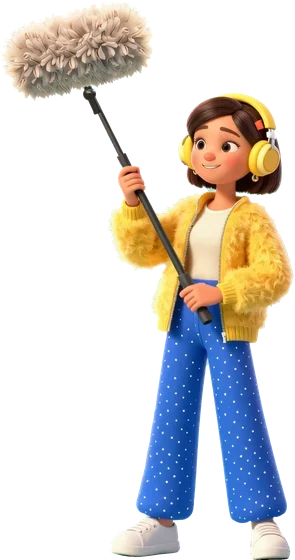
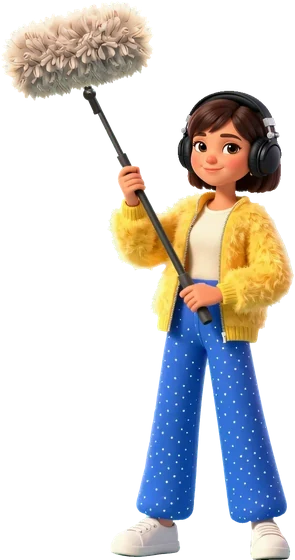
Team: straight gazes and studio headphones; the record strip goes round
- The recording person and the keyboardist no longer look cross-eyed; she wears professional black
  studio headphones (and freckles), in the hero and on the map
- On tablets and phones the strip of sleeves goes round in a circle, with no start or end; records
  slide out of their sleeves at an unhurried pace again

Changed region(s): [[0.5797, 0.1518, 0.9763, 0.3643]]

diff --git a/js/main.js b/js/main.js
@@ -72,7 +72,7 @@ function initHeader() {
 // line on top, the phone under it, the team under the phone. The people's tops come from their pictures:
 // bands of their silhouettes, every 4 % of the height (_dev/tools/team_silhouette.py), her microphone from
 // js/boom-frame.js; thin things (her pole) are left out.
-const SILHOUETTE = {"test":[[0.0,0.04,0.422,0.791],[0.04,0.08,0.391,0.812],[0.08,0.12,0.396,0.812],[0.12,0.16,0.381,0.719],[0.16,0.2,0.383,0.709],[0.2,0.24,0.0,0.828],[0.24,0.28,0.0,0.896],[0.28,0.32,0.002,0.934],[0.32,0.36,0.045,0.971],[0.36,0.4,0.072,0.998],[0.4,0.44,0.08,1.0],[0.44,0.48,0.285,0.986],[0.48,0.52,0.281,0.945],[0.52,0.56,0.285,0.828],[0.56,0.6,0.32,0.777]],"rec":[[0.12,0.16,0.726,0.832],[0.16,0.2,0.611,0.924],[0.2,0.24,0.587,0.939],[0.24,0.28,0.576,0.954],[0.28,0.32,0.354,0.956],[0.32,0.36,0.359,0.95],[0.36,0.4,0.32,0.936],[0.4,0.44,0.317,0.974],[0.44,0.48,0.35,0.996],[0.48,0.52,0.488,1.0],[0.52,0.56,0.475,0.969],[0.56,0.6,0.499,0.901]],"mix":[[0.0,0.04,0.221,0.546],[0.04,0.08,0.112,0.633],[0.08,0.12,0.087,0.633],[0.12,0.16,0.077,0.602],[0.16,0.2,0.108,0.562],[0.2,0.24,0.231,0.585],[0.24,0.28,0.127,0.683],[0.28,0.32,0.071,0.74],[0.32,0.36,0.025,0.794],[0.36,0.4,0.0,0.831],[0.4,0.44,0.0,0.848],[0.44,0.48,0.027,0.994],[0.48,0.52,0.113,1.0],[0.52,0.56,0.023,0.892],[0.56,0.6,0.044,0.698]]};
+const SILHOUETTE = {"test":[[0.0,0.04,0.422,0.791],[0.04,0.08,0.391,0.812],[0.08,0.12,0.396,0.812],[0.12,0.16,0.381,0.719],[0.16,0.2,0.383,0.709],[0.2,0.24,0.0,0.828],[0.24,0.28,0.0,0.896],[0.28,0.32,0.002,0.934],[0.32,0.36,0.045,0.971],[0.36,0.4,0.072,0.998],[0.4,0.44,0.08,1.0],[0.44,0.48,0.285,0.986],[0.48,0.52,0.281,0.945],[0.52,0.56,0.285,0.828],[0.56,0.6,0.32,0.777]],"rec":[[0.12,0.16,0.683,0.843],[0.16,0.2,0.608,0.921],[0.2,0.24,0.586,0.947],[0.24,0.28,0.575,0.954],[0.28,0.32,0.354,0.952],[0.32,0.36,0.359,0.943],[0.36,0.4,0.32,0.936],[0.4,0.44,0.317,0.974],[0.44,0.48,0.35,0.996],[0.48,0.52,0.488,1.0],[0.52,0.56,0.475,0.969],[0.56,0.6,0.499,0.901]],"mix":[[0.0,0.04,0.221,0.546],[0.04,0.08,0.112,0.633],[0.08,0.12,0.087,0.633],[0.12,0.16,0.077,0.596],[0.16,0.2,0.108,0.562],[0.2,0.24,0.231,0.585],[0.24,0.28,0.127,0.683],[0.28,0.32,0.071,0.74],[0.32,0.36,0.025,0.794],[0.36,0.4,0.0,0.831],[0.4,0.44,0.0,0.848],[0.44,0.48,0.027,0.994],[0.48,0.52,0.113,1.0],[0.52,0.56,0.023,0.892],[0.56,0.6,0.044,0.698]]};
 const PHONE_RATIO = 2.05;
 
 // every place the people pass on the carousel (k = -1 left ... 0 middle ... +1 right), as rects on the stage
@@ -454,13 +454,45 @@ function initWork(openProject) {
   };
   // phones (round S): a strip of sleeves to swipe above the player, the track list under it; the sleeve in
   // the middle of the strip is the chosen record
-  // round T: the strip only ever scrolls sideways (scrollIntoView could move it, and the page, up and down)
+  // round T: the strip only ever scrolls sideways (scrollIntoView could move it, and the page, up and down).
+  // Round T, third pass (the owner: the strip had a start and an end): it goes round in a circle. A copy of the
+  // nine sleeves lies on each side; when the strip stops on a copy, it moves, unseen, to the same sleeve in the
+  // middle set. The sleeve in the middle of the strip is the chosen one, copy or not.
+  const ghosts = [];
+  const makeGhosts = () => {
+    if (ghosts.length) return;
+    const copy = () => items.map((li) => {
+      const g = li.cloneNode(true);
+      g.classList.add('rec--ghost');
+      g.classList.remove('is-active', 'is-hinted');
+      g.setAttribute('aria-hidden', 'true');
+      g.querySelectorAll('button, a').forEach((el) => { el.tabIndex = -1; });
+      return g;
+    });
+    const before = copy(), after = copy();
+    list.prepend(...before);
+    list.append(...after);
+    ghosts.push(...before, ...after);
+  };
+  const dropGhosts = () => { ghosts.forEach((g) => g.remove()); ghosts.length = 0; };
+  const sleeves = () => (ghosts.length ? [...list.children] : items);
+  const centreOf = (el) => el.offsetLeft + el.offsetWidth / 2 - stage.clientWidth / 2;
+  const nearest = (els = sleeves()) => {
+    const mid = stage.scrollLeft + stage.clientWidth / 2;
+    let best = null, bestD = Infinity;
+    els.forEach((el) => { const d = Math.abs(el.offsetLeft + el.offsetWidth / 2 - mid); if (d < bestD) { bestD = d; best = el; } });
+    return best;
+  };
+  const markCentre = (el) => {
+    list.querySelectorAll('.rec.is-active').forEach((x) => { if (x !== el) x.classList.remove('is-active'); });
+    el.classList.add('is-active');
+  };
   let stripLock = 0;
-  const stripTo = (i) => {
+  const stripTo = (i, el = nearest(sleeves().filter((x) => +x.dataset.i === i))) => {   // the copy nearest to hand
     setActive(i);
+    markCentre(el);
     stripLock = performance.now() + 700;   // a smooth scroll to it passes other sleeves: they don't take over
-    const li = items[i];
-    stage.scrollTo({ left: li.offsetLeft + li.offsetWidth / 2 - stage.clientWidth / 2, behavior: reduceMotion.matches ? 'auto' : 'smooth' });
+    stage.scrollTo({ left: centreOf(el), behavior: reduceMotion.matches ? 'auto' : 'smooth' });
   };
   const go = (d) => {
     byHand = true;
@@ -477,24 +509,38 @@ function initWork(openProject) {
   let stripSettle = 0, stripFrame = 0;
   const stripPick = () => {
     stripFrame = 0;
-    const mid = stage.getBoundingClientRect().left + stage.clientWidth / 2;
-    let best = active, bestD = Infinity;
-    items.forEach((li, i) => { const r = li.getBoundingClientRect(); const d = Math.abs(r.left + r.width / 2 - mid); if (d < bestD) { bestD = d; best = i; } });
-    if (best !== active) setActive(best);
+    const el = nearest();
+    if (!el) return;
+    if (+el.dataset.i !== active) setActive(+el.dataset.i);
+    markCentre(el);
+  };
+  const stripHome = () => {   // stopped on a copy: the same place in the middle set, with nothing sliding
+    const el = nearest();
+    if (!el || !el.classList.contains('rec--ghost')) return;
+    const home = items[+el.dataset.i];
+    home.classList.add('is-still');
+    stage.scrollLeft += home.offsetLeft - el.offsetLeft;
+    markCentre(home);
+    void home.offsetWidth;
+    requestAnimationFrame(() => home.classList.remove('is-still'));
   };
   stage.addEventListener('scroll', () => {
     if (!strip.matches) return;
     if (performance.now() > stripLock && !stripFrame) stripFrame = requestAnimationFrame(stripPick);
     clearTimeout(stripSettle);
-    stripSettle = setTimeout(() => { stripLock = 0; stripPick(); }, 120);
+    stripSettle = setTimeout(() => { stripLock = 0; stripPick(); stripHome(); }, 160);
   }, { passive: true });
 
+  const stripCentre = () => { const el = list.querySelector('.rec.is-active') || items[Math.max(active, 0)]; stage.scrollLeft = centreOf(el); };
   const applyMode = () => {
-    if (strip.matches) items.forEach((li) => { li.style.transform = ''; li.style.zIndex = ''; });
-    else { pos = target = mod(Math.max(active, 0)); layout(); }
+    if (strip.matches) {
+      items.forEach((li) => { li.style.transform = ''; li.style.zIndex = ''; });
+      makeGhosts();
+      requestAnimationFrame(() => { markCentre(items[Math.max(active, 0)]); stripCentre(); });
+    } else { dropGhosts(); pos = target = mod(Math.max(active, 0)); layout(); }
   };
   strip.addEventListener('change', applyMode);
-  new ResizeObserver(() => layout()).observe(stage);
+  new ResizeObserver(() => (strip.matches ? stripCentre() : layout())).observe(stage);
 
   // --- input
   $('[data-prev]').addEventListener('click', () => go(-1));
@@ -535,7 +581,7 @@ function initWork(openProject) {
     const li = e.target.closest('.rec');
     if (!li || moved) return;
     const i = +li.dataset.i;
-    if (strip.matches) { stripTo(i); return; }
+    if (strip.matches) { stripTo(i, li); return; }
     if (i === active && PROJECTS[i].case && Math.abs(pos - target) < 0.05) openProject(i);
     else goTo(i);
   });

diff --git a/index.html b/index.html
@@ -11,35 +11,35 @@
 <link rel="preconnect" href="https://fonts.gstatic.com" crossorigin>
 <link rel="stylesheet" href="https://fonts.googleapis.com/css2?family=Archivo:wdth,wght@62..125,100..900&family=Roboto+Flex:wdth,wght@25..151,100..1000&family=Montserrat:wght@600..900&display=swap">
 <script>try{if(localStorage.getItem("sfx-lang")==="uk"){document.documentElement.lang="uk";document.documentElement.classList.add("i18n-wait")}}catch(e){}</script>
-<link rel="stylesheet" href="css/style.css?v=202610231517">
+<link rel="stylesheet" href="css/style.css?v=202610231613">
 <link rel="preload" as="image" href="assets/system/scene-forest.webp" fetchpriority="high">
 <script type="importmap">
 {
   "imports": {
     "three": "https://cdn.jsdelivr.net/npm/three@0.170.0/build/three.module.min.js",
     "three/addons/": "https://cdn.jsdelivr.net/npm/three@0.170.0/examples/jsm/",
-    "./js/audio.js": "./js/audio.js?v=202610231517",
-    "./js/boom-frame.js": "./js/boom-frame.js?v=202610231517",
-    "./js/content.js": "./js/content.js?v=202610231517",
-    "./js/gift.js": "./js/gift.js?v=202610231517",
-    "./js/i18n-boot.js": "./js/i18n-boot.js?v=202610231517",
-    "./js/i18n-uk.js": "./js/i18n-uk.js?v=202610231517",
-    "./js/i18n.js": "./js/i18n.js?v=202610231517",
-    "./js/main.js": "./js/main.js?v=202610231517",
-    "./js/map.js": "./js/map.js?v=202610231517",
-    "./js/music/music.js": "./js/music/music.js?v=202610231517",
-    "./js/music/sound.js": "./js/music/sound.js?v=202610231517",
-    "./js/phone-speakers.js": "./js/phone-speakers.js?v=202610231517",
-    "./js/studio-anim.js": "./js/studio-anim.js?v=202610231517",
-    "./js/studio-console.js": "./js/studio-console.js?v=202610231517",
-    "./js/studio-foley.js": "./js/studio-foley.js?v=202610231517",
-    "./js/studio-piano.js": "./js/studio-piano.js?v=202610231517",
-    "./js/team-carousel.js": "./js/team-carousel.js?v=202610231517"
+    "./js/audio.js": "./js/audio.js?v=202610231613",
+    "./js/boom-frame.js": "./js/boom-frame.js?v=202610231613",
+    "./js/content.js": "./js/content.js?v=202610231613",
+    "./js/gift.js": "./js/gift.js?v=202610231613",
+    "./js/i18n-boot.js": "./js/i18n-boot.js?v=202610231613",
+    "./js/i18n-uk.js": "./js/i18n-uk.js?v=202610231613",
+    "./js/i18n.js": "./js/i18n.js?v=202610231613",
+    "./js/main.js": "./js/main.js?v=202610231613",
+    "./js/map.js": "./js/map.js?v=202610231613",
+    "./js/music/music.js": "./js/music/music.js?v=202610231613",
+    "./js/music/sound.js": "./js/music/sound.js?v=202610231613",
+    "./js/phone-speakers.js": "./js/phone-speakers.js?v=202610231613",
+    "./js/studio-anim.js": "./js/studio-anim.js?v=202610231613",
+    "./js/studio-console.js": "./js/studio-console.js?v=202610231613",
+    "./js/studio-foley.js": "./js/studio-foley.js?v=202610231613",
+    "./js/studio-piano.js": "./js/studio-piano.js?v=202610231613",
+    "./js/team-carousel.js": "./js/team-carousel.js?v=202610231613"
   }
 }
 </script>
-<script type="module" src="js/i18n-boot.js?v=202610231517"></script>
-<script type="module" src="js/main.js?v=202610231517"></script>
+<script type="module" src="js/i18n-boot.js?v=202610231613"></script>
+<script type="module" src="js/main.js?v=202610231613"></script>
 </head>
 <body>
 <a class="skip" href="#main">Skip to content</a>

diff --git a/css/style.css b/css/style.css
@@ -634,7 +634,8 @@ ul { padding: 0; list-style: none; }
      player, and the track list folded into a grid of small two-line cells (name; tag and project) */
   .orbit__stage { padding: 14px 30vw 8px; margin-bottom: 4px; }
   .rec { width: min(31vw, 140px); }
-  .rec .disc { transition-duration: .32s; }   /* round T: in and out of the sleeve as the strip moves, no lag */
+  .rec .disc { transition-duration: .75s; }   /* round T: an unhurried slide out of the sleeve (.32 s was too quick) */
+  .rec.is-still .disc, .rec.is-still .rec__hit { transition: none; }   /* the unseen move from a copy to the real sleeve */
   .rec.is-active .rec__visual::before { top: -4%; height: 108%; }   /* the colour pool stays inside the strip's height */
   .hub { padding: 12px 14px 10px; border-radius: 20px; }
   .player { --deck: 66px; column-gap: 12px; }
